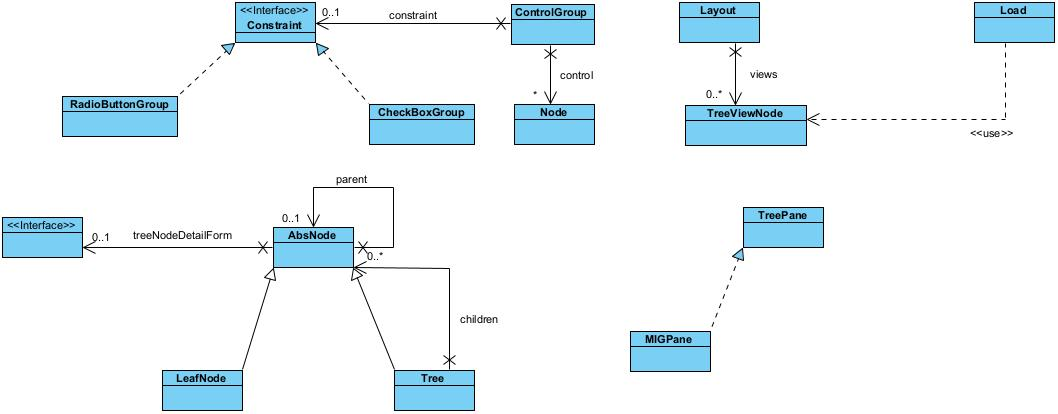
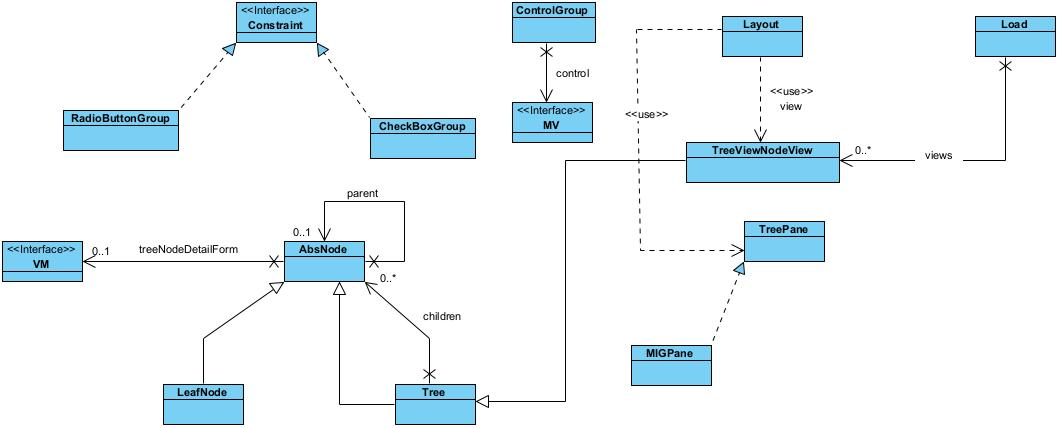
Update object models and README.md

diff --git a/README.md b/README.md
@@ -15,161 +15,89 @@ THE SOFTWARE IS PROVIDED "AS IS", WITHOUT WARRANTY OF ANY KIND, EXPRESS OR IMPLI
 ## Models
 Note that the class definitions and descriptions do not necessarily correspond to the diagram. This is because the class definition are taken out of the packages and the diagrams are loosely based on the packages.
 
+These are notes for myself.
+
 ### Controller
 ![Controller Models](controller.jpg)  
-These are the JavaFX controllers used.  
-
-1. ControllerMain  
-The main controller that contain the ListVM, TreeVM and the tree detail forms panel. This is the controller for form_main.fxml.  
-
-2. ControllerDetail  
-This is the controller for form_detail.fxml. It is used to display view model detail in in a window if the detail panes are not defined.  
-
-3. ControllerTableView  
-This is the controller for form_tableview.fxml. It is used to display the TreeVM in the Tree in ControllerMain. 
+These are the JavaFX controllers used.  *NB* Be careful with the naming of the controllers fxml files in a project using this library. Name clashes can have unintended side effects that is only detected at runtime.
 
 ### Layout
 ![Layout](Layout.jpg)  
-1. RadioButtonGroup  
-A group of related radio buttons. This class ensures that the buttons all belong to the same ToggleGroup of buttons.
 
-2. CheckBoxGroup  
-Not used at the moment. It is supposed to be: A group of related checkboxes. When asked for the current value it should return a set it selected items.
+The layout package does the layout of the javafx nodes onto the mig pane. The way the nodes are ordered onto the mig pane is defined by a view json file. This is done using the Load object. The load object holds the roots of these tree definition in the views reference. The Layout object uses these tree definition to do the layout of the relevant class variables.
 
-3. Layout  
-Object that does the layout of the Nodes defined in the view models. 
+Radio buttons must be grouped as selecting one in the group must unselect the others in the group. Check Box Group is currently not used.
 
-4. Load  
-Object that loads the layout of the view models from json files.
+The json file content represents a Tree structure. This is modelled by AbsNode, Tree and LeafNode. Each AbsNode has a reference to the tree node detail form. This form holds the data loaded from the json file.
 
-5. MIGPane  
-The one and only pane that is used to add Nodes to.
-
-6. ControlGroup  
-A Group of controls. This references the relevant constraint and the list of nodes that is looks after.
-
-7. AbsNode  
-Root of a tree.This is the tree definition of the layout of view models
-
-8. LeafNode  
-Leaf node of a tree.
-
-9. Tree
-A Tree node. This node has children. A child can either be a Leaf node or Tree node.
+This is an example of the content of a json file.
+<pre>
+{
+    "node": {
+        "type": "MIGLAYOUT",
+        "label": "Test",
+        "layout": " :: :: ",
+        "children": [
+            {
+                "DisplayLabel": {
+                    "label": "Field",
+                    "field": "field",
+                    "layout": "wrap"
+                }
+            },
+            {
+                "DisplayText": {
+                    "validateREGEX": "",
+                    "errString": "",
+                    "label": "Label",
+                    "field": "label",
+                    "layout": "wrap:: :: "
+                }
+            },
+            {
+                "DisplayText": {
+                    "validateREGEX": "",
+                    "errString": "",
+                    "label": "MIG Layout",
+                    "field": "layout",
+                    "layout": " :: :: "
+                }
+            }
+        ]
+    }
+}
+</pre>
 
 ### Nodes
 ![Nodes](Nodes.jpg)  
-1. DisplayTree()  
-Display a basic TreeView.
+The MV (model View) classes are the actual view on the model to be displayed to the user on the mig pane. These hold the javafx components to be displayed. The Layout object will get the javafx component and ask it to render itself on the mig pane. 
 
-2. DisplayList()  
-Display a basic TableView.
-
-3. DisplayText()  
-Display Text component.
-
-4. DisplayComboBox()  
-Display ComboBox.
-
-5. DisplayBoolean()  
-Display CheckBox.
-
-6. DisplayRadioButton()  
-Display RadioButton.
-
-7. DisplayRadioGroup()  
-Display RadioButtonGroup.
-
-8. DisplayLabel()  
-Display Label
-
-9. DisplayLabelView()  
-Load and save the treeNodeDetailForm detail of the DisplayLabelVM in or from json file. Display the leaf node information on the tree via toString
-
-10. DisplayTreeView()  
-Load and save the treeNodeDetailForm detail of the DisplayTreeVM in or from json file. Display the leaf node information on the tree via toString
-
-11. DisplayRadioGroupView()  
-Load and save the treeNodeDetailForm detail of the DisplayRadioGroupVM in or from json file. Display the leaf node information on the tree via toString
-
-12. DisplayRadioView()  
-Load and save the treeNodeDetailForm detail of the DisplayRadioVM in or from json file. Display the leaf node information on the tree via toString
-
-13. DisplayBooleanView()  
-Load and save the treeNodeDetailForm detail of the DisplayBooleanVM in or from json file. Display the leaf node information on the tree via toString
-
-14. DisplayTextView()  
-Load and save the treeNodeDetailForm detail of the DisplayTextVM in or from json file. Display the leaf node information on the tree via toString
-
-15. DisplayListView()  
-Load and save the treeNodeDetailForm detail of the DisplayListVM in or from json file. Display the leaf node information on the tree via toString
-
-16. DisplayComboBoxView()  
-Load and save the treeNodeDetailForm detail of the DisplayComboBoxVM in or from json file. Display the leaf node information on the tree via toString
-
-17. DisplayTOVMMapView()  
-Load and save the treeNodeDetailForm detail of the DisplayTOVMMapVM in or from json file. Display the leaf node information on the tree via toString
-
-18. DisplayComponentTreeView()  
-Load and save the treeNodeDetailForm detail of the DisplayComponentTreeVM in or from json file. Display the leaf node information on the tree via toString
-
-19. TreeViewNodeView()  
-Load and save the treeNodeDetailForm detail of the TreeViewNodeVM in or from json file. Display the leaf node information on the tree via toString.
+The LeafComponents child classes contain the logic to load and save the VM (treeNodeDetailForm) content to and from the json file.
 
 ### ViewModel
 ![View Model](viewmodel.jpg)  
-All the view models in the library.
-
-1. DisplayTreeViewNodeVM  
-
-2. DisplayTreeVM  
-
-3. DisplayRadioGroupVM  
-
-4. DisplayRadioVM  
-
-5. DisplayBooleanVM  
-
-6. DisplayTextVM  
-
-7. DisplayListVM  
-
-8. DisplayComboBoxVM  
-
-9. DisplayToVM  
-
-10. DisplayComponentTreeVM  
-
-11. DisplayLabelVM  
+The VM (view models) are all forms representations that holds information loaded from the json file. This means that they are not the form itself only the meta data required to create the form. These classes also holds the information as defined by the json file. See above for an example of the json view file. In
+<pre>
+            {
+                "DisplayText": {
+                    "validateREGEX": "",
+                    "errString": "",
+                    "label": "MIG Layout",
+                    "field": "layout",
+                    "layout": " :: :: "
+                }
+            }
+</pre>
+The information loaded is the validateREGEX, errString, label, field and layout.
 
 ### ListVM
 ![List View Model](viewmodel.listvm.jpg)  
-1. Member  
-Members of the list
-
-2. DisplayMemberList  
-The list
-
-3. DisplayClassMembersListVM  
-Compound display of combo box and class members. The class member list is that of the class of the item selected in the combo box.
 
 ### TreeVM
 ![Tree View Model](viewmodel.treevm.jpg)  
-1. DisplayComponentTree  
-The tree view that is displaying the layout of the form.
-
-2. DisplayTreeViewComponentsVM
-Implements drag and drop (verify this).
 
 ## Current Version
 The current version is 0.0.0 dev
-
-## Dependencies
-1. Java 11
-2. JavaFX 11
-3. scala 3
-4. org.json.json
-5. com.miglayout.miglayout-javafx
 
 ## Usage
 This library is not ready for general usage.
